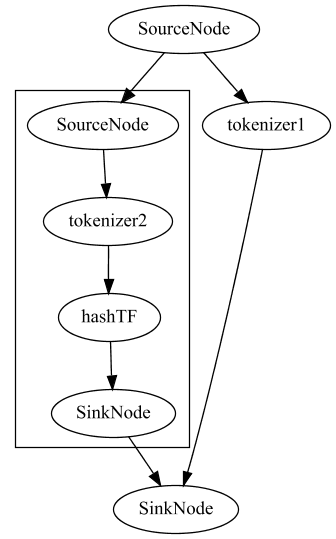
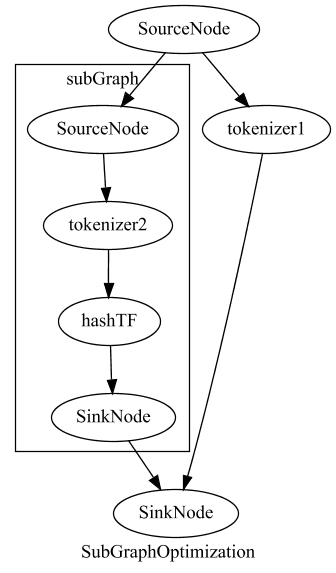
fixed the syn issue

Changed region(s): [[0.0298, 0.0, 0.7738, 1.0], [0.5952, 0.1484, 1.0, 0.3859]]

diff --git a/src/test/java/OptimizationTest.java b/src/test/java/OptimizationTest.java
@@ -1,13 +1,17 @@
+import core.graphPipeline.SDF.SDFNode;
 import core.graphPipeline.basic.SGraph;
 import core.graphPipeline.basic.SNode;
 import examples.TestBase;
+import examples.VSMTask;
 import featurePipeline.DummyStage;
 import featurePipeline.SGraphIOStage;
+import featurePipeline.UnsupervisedStage.UnsupervisedStage;
 import guru.nidi.graphviz.engine.Format;
 import guru.nidi.graphviz.engine.Graphviz;
 import guru.nidi.graphviz.model.MutableGraph;
 import guru.nidi.graphviz.model.MutableNode;
 import org.apache.spark.ml.feature.HashingTF;
+import org.apache.spark.ml.feature.IDF;
 import org.apache.spark.ml.feature.Tokenizer;
 import org.apache.spark.sql.Dataset;
 import org.apache.spark.sql.Row;
@@ -159,32 +163,77 @@ public class OptimizationTest extends TestBase {
     }
 
     @Test
-    public void graphvizTest() throws IOException {
-//        MutableGraph subGraph = mutGraph("subgraph");
-//        MutableNode subSource = mutNode("source");
-//        MutableNode subSink = mutNode("sink1");
-//        subGraph.add(subSource.addLink(subSink));
-//        subGraph.setCluster(true);
-//
-//        MutableGraph g = mutGraph("partentGraph");
-//        MutableNode sourceNode = mutNode("sourceNode").addLink("tokenizer").addLink("source");
-//        MutableNode tokenizer = mutNode("tokenizer").addLink("sink2");
-//        g.add(subSink.addLink("sink2"));
-//        g.add(sourceNode, tokenizer);
-//        g.add(subGraph);
+    public void dualSubGraphTest() throws Exception {
+        Dataset<Row> dataset = getSentenceLabelDataset();
 
-        MutableGraph sub = mutGraph("sub").add(
-                node("source").link("sink1"),
-                node("sink1").link("sink2"));
-        sub.rootNodes().remove(node("sink1"));
-        sub.rootNodes().remove(node("sink2"));
-        MutableGraph g = mutGraph().add(
-                node("sourceNode").link("tokenizer").link("source"),
-                node("tokenizer").link("sink2")
-        );
-        g.add(sub.setCluster(true));
-        Graphviz.fromGraph(g).render(Format.PNG).toFile(new File(String.format("figures/%s.png", "test")));
+        SGraph subGraph1 = new SGraph("VSMGraph");
+        subGraph1.addInputField("text");
+        subGraph1.addOutputField("TF-IDF");
 
+        Tokenizer tk1 = new Tokenizer();
+        SNode tkNode1 = new SNode(tk1, "tokenizer1");
+        tkNode1.addInputField("text");
+        tkNode1.addOutputField("tokens1");
+
+        HashingTF hashingTF1 = new HashingTF();
+        SNode hashTFNode1 = new SNode(hashingTF1, "hashTF1");
+        hashTFNode1.addInputField("tokenInput");
+        hashTFNode1.addOutputField("TF");
+
+        IDF idf1 = new IDF();
+        SNode idfNode = new SDFNode(idf1, "idf1");
+        idfNode.addInputField("s_idf_in");
+        idfNode.addOutputField("s_idf_out");
+
+        subGraph1.addNode(tkNode1);
+        subGraph1.addNode(hashTFNode1);
+        subGraph1.addNode(idfNode);
+
+        subGraph1.connect(subGraph1.sourceNode, "text", tkNode1, "text");
+        subGraph1.connect(tkNode1, "tokens1", hashTFNode1, "tokenInput");
+        subGraph1.connect(hashTFNode1, "TF", idfNode, "s_idf_in");
+        subGraph1.connect(idfNode, "s_idf_out", subGraph1.sinkNode, "TF-IDF");
+
+
+        SGraph subGraph2 = new SGraph("HashTFGraph");
+        subGraph2.addInputField("text");
+        subGraph2.addOutputField("TF");
+
+        Tokenizer tk2 = new Tokenizer();
+        SNode tkNode2 = new SNode(tk2, "tokenizer2");
+        tkNode2.addInputField("text");
+        tkNode2.addOutputField("tokens2");
+
+        HashingTF hashingTF2 = new HashingTF();
+        SNode hashTFNode2 = new SNode(hashingTF2, "hashTF2");
+        hashTFNode2.addInputField("tokenInput");
+        hashTFNode2.addOutputField("TF");
+
+        subGraph2.addNode(tkNode2);
+        subGraph2.addNode(hashTFNode2);
+
+        subGraph2.connect(subGraph2.sourceNode, "text", tkNode2, "text");
+        subGraph2.connect(tkNode2, "tokens2", hashTFNode2, "tokenInput");
+        subGraph2.connect(hashTFNode2, "TF", subGraph2.sinkNode, "TF");
+
+        SGraph graph = new SGraph("dualSubGraphTest");
+        graph.addInputField("sentence");
+        graph.addOutputField("TF");
+        graph.addOutputField("TF-IDF");
+
+        graph.addNode(subGraph1);
+        graph.addNode(subGraph2);
+
+        graph.connect(graph.sourceNode, "sentence", subGraph1, "text");
+        graph.connect(graph.sourceNode, "sentence", subGraph2, "text");
+        graph.connect(subGraph1, "TF-IDF", graph.sinkNode, "TF-IDF");
+        graph.connect(subGraph2, "TF", graph.sinkNode, "TF");
+
+        graph.showGraph("dual_subGraph_before_optimize");
+        graph.optimize(graph);
+        graph.showGraph("dual_subGraph__after_optimize");
+        Dataset<Row> result = graph.toPipeline().fit(dataset).transform(dataset);
+        result.show();
     }
 
 }

diff --git a/src/main/java/core/graphPipeline/basic/SGraph.java b/src/main/java/core/graphPipeline/basic/SGraph.java
@@ -99,6 +99,9 @@ public class SGraph extends Vertex {
         }
 
         for (Vertex node : graph.getNodes()) {
+            if (node instanceof SGraph) {
+                syncSymbolValues((SGraph) node);
+            }
             for (IOTableCell providerCell : node.outputTable.getCells()) {
                 Symbol providerSymbol = providerCell.getFieldSymbol();
                 for (IOTableCell receiverCell : providerCell.getOutputTarget()) {
@@ -106,9 +109,6 @@ public class SGraph extends Vertex {
                     SymbolTable.shareSymbolValue(providerSymbol, receiverSymbol, true);
                 }
             }
-//            if (node instanceof SGraph) {
-//                syncSymbolValues((SGraph) node);
-//            }
         }
 
         for (IOTableCell graphOutputCell : graph.getOutputTable().getCells()) {
@@ -160,7 +160,6 @@ public class SGraph extends Vertex {
     @Override
     public Pipeline toPipeline() throws Exception {
         syncSymbolValues(this);
-
         //Config the SGraphIOStage to parse the InputTable which translate the Symbols to real column names
         SGraphIOStage initStage = (SGraphIOStage) sourceNode.getSparkPipelineStage();
         initStage.setInputCols(inputTable);
@@ -389,6 +388,7 @@ public class SGraph extends Vertex {
 
     public MutableGraph getVizGraph() {
         MutableGraph g = mutGraph(getVertexId()).setDirected(true).setCluster(true);
+        g.graphAttrs().add(Label.of(getVertexId()));
         for (Vertex vertex : this.getNodes()) {
             if (vertex instanceof SNode) {
                 SNode v = (SNode) vertex;
@@ -401,14 +401,7 @@ public class SGraph extends Vertex {
                 }
                 MutableNode vNode = mutNode(v.getVertexId()).add(Label.of(nodeTitle));
                 for (Vertex outputNode : v.getOutputVertices()) { //note: sink node have no outputVertices, parent graph hold this information
-                    if (outputNode instanceof SNode) {
-                        vNode = vNode.addLink(outputNode.getVertexId());
-                    } else {
-                        SGraph subGraph = (SGraph) outputNode;
-                        SNode innerSource = subGraph.sourceNode;
-                        MutableGraph innerGraph = subGraph.getVizGraph();// create inner graph, this graph is implicitly added to the parent
-                        vNode = vNode.addLink(innerSource.getVertexId());
-                    }
+                    vNode = createVizEdge(vNode, outputNode);
                 }
                 g.add(vNode);
 
@@ -418,12 +411,24 @@ public class SGraph extends Vertex {
                 Vertex sinkNode = v.sinkNode;
                 MutableNode innerSink = mutNode(sinkNode.getVertexId());
                 for (Vertex outputNode : vertex.getOutputVertices()) {
-                    innerSink = innerSink.addLink(outputNode.getVertexId());
+                    innerSink = createVizEdge(innerSink, outputNode);
                 }
-                g.add(innerSink, subGraph);
+                g.add(innerSink,subGraph);
             }
         }
         return g;
+    }
+
+    private MutableNode createVizEdge(MutableNode vizFromNode, Vertex outputNode) {
+        if (outputNode instanceof SNode) {
+            vizFromNode = vizFromNode.addLink(outputNode.getVertexId());
+        } else {
+            SGraph subGraph = (SGraph) outputNode;
+            SNode innerSource = subGraph.sourceNode;
+            MutableGraph innerGraph = subGraph.getVizGraph();// create inner graph, this graph is implicitly added to the parent
+            vizFromNode = vizFromNode.addLink(innerSource.getVertexId());
+        }
+        return vizFromNode;
     }
 
     public void showGraph(String figName) throws IOException {

diff --git a/src/main/java/core/pipelineOptimizer/GraphHierarchyTree.java b/src/main/java/core/pipelineOptimizer/GraphHierarchyTree.java
@@ -50,9 +50,9 @@ public class GraphHierarchyTree {
                     break;
                 }
             }
-            GraphHierarchyTree lcaNode = node1Path.get(node1Path.size() - lcaIndex);
-            List<GraphHierarchyTree> node1ToLCAPath = node1Path.subList(0, node1Path.size() - lcaIndex);
-            List<GraphHierarchyTree> node2ToLCAPath = node2Path.subList(0, node2Path.size() - lcaIndex);
+            GraphHierarchyTree lcaNode = node1Path.get(node1Path.size() - lcaIndex + 1);
+            List<GraphHierarchyTree> node1ToLCAPath = node1Path.subList(0, node1Path.size() - lcaIndex + 1);
+            List<GraphHierarchyTree> node2ToLCAPath = node2Path.subList(0, node2Path.size() - lcaIndex + 1);
 
             result.LCANode = lcaNode;
             result.node1ToLCAPath = node1ToLCAPath;

diff --git a/src/main/java/core/graphPipeline/basic/SNode.java b/src/main/java/core/graphPipeline/basic/SNode.java
@@ -5,6 +5,7 @@ import featurePipeline.NullRemoveWrapper.InnerStageImplementHasInputCol;
 import featurePipeline.NullRemoveWrapper.InnerStageImplementHasOutputCol;
 import org.apache.spark.ml.Pipeline;
 import org.apache.spark.ml.PipelineStage;
+import org.apache.spark.ml.feature.HashingTF;
 import org.apache.spark.ml.param.Param;
 import org.apache.spark.ml.param.shared.HasInputCol;
 import org.apache.spark.ml.param.shared.HasInputCols;
